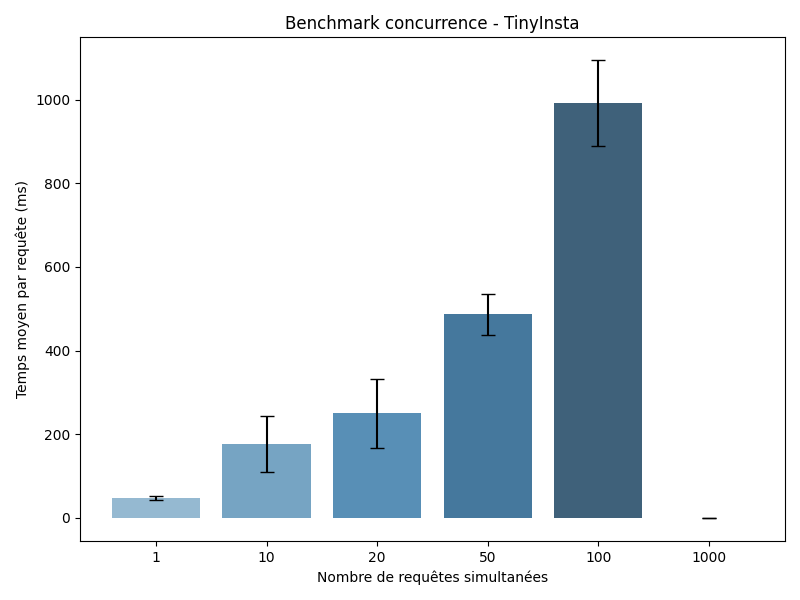
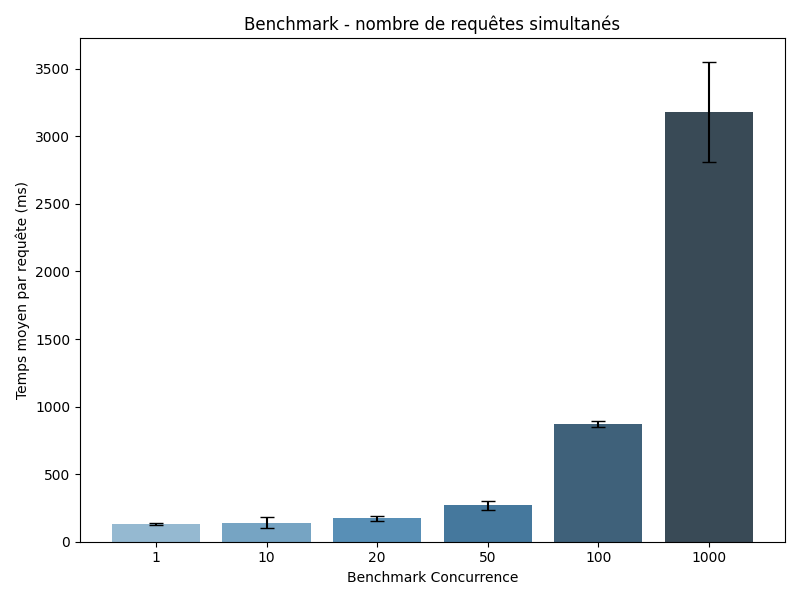
Modification utilisation locust

diff --git a/scripts/plot.py b/scripts/plot.py
@@ -4,7 +4,7 @@ import seaborn as sns
 import numpy as np
 
 # Lire le CSV
-df = pd.read_csv("nom_du_fichier.csv")
+df = pd.read_csv("conc.csv")
 
 # Nettoyer AVG_TIME (enlever 'ms' et convertir en float)
 df['AVG_TIME'] = df['AVG_TIME'].astype(str).str.replace('ms','').astype(float)
@@ -17,9 +17,9 @@ plt.figure(figsize=(8,6))
 ax = sns.barplot(x='PARAM', y='mean', data=summary, palette='Blues_d')
 ax.errorbar(x=range(len(summary)), y=summary['mean'], yerr=summary['std'], fmt='none', c='black', capsize=5)
 
-plt.xlabel('x')
-plt.ylabel('y')
-plt.title('titre')
+plt.xlabel('Benchmark Concurrence')
+plt.ylabel('Temps moyen par requête (ms)')
+plt.title('Benchmark - nombre de requêtes simultanés')
 plt.tight_layout()
-plt.savefig("nom_du_fichier.png")
+plt.savefig("conc.png")
 plt.show()

diff --git a/scripts/locust.py b/scripts/locust.py
@@ -1,0 +1,15 @@
+from locust import HttpUser, task, between
+import random
+
+TOTAL_USERS = 1000
+
+class TimelineUser(HttpUser):
+    wait_time = between(0.1, 0.5)
+
+    def on_start(self):
+        # Chaque utilisateur Locust aura un user différent
+        self.user_id = random.randint(1, TOTAL_USERS)
+
+    @task
+    def get_timeline(self):
+        self.client.get(f"/api/timeline?user=user{self.user_id}")

diff --git a/README.md b/README.md
@@ -1,5 +1,7 @@
 # DataMassiveProject
 
+_Pour chacune des étapes qui vont suivre les données ont été rentrées à la main dans le csv après avoir obtenu les résultats sur locust._
+
 ## **Passage à l'échelle sur la charge :**
 
 
@@ -11,44 +13,28 @@ python seed.py --users 1000 --posts 50000 --follows-min 20 --follows-max 20
 ```
 
 ### Benchmark des performances :
-Script Python pour mesurer le temps moyen d'une requête timeline pour différentes concurrences et sauvegarder les résultats dans un CSV (conc.csv) :
+Script Python pour lancer locust et pouvoir éxécuter tout les tests sur le site :
 
 ```bash
-import subprocess
-import csv
-import re
+from locust import HttpUser, task, between
+import random
 
-# Paramètres
-url = "https://tp1-massive-data.ew.r.appspot.com/api/timeline?user=user1"
-concurrences = [1, 10, 20, 50, 100, 1000]
-runs = 3
-csv_file = "conc.csv"
+TOTAL_USERS = 1000
 
-# Préparer le CSV
-with open(csv_file, "w", newline="") as f:
-    writer = csv.writer(f)
-    writer.writerow(["PARAM","AVG_TIME","RUN","FAILED"])
+class TimelineUser(HttpUser):
+    wait_time = between(0.1, 0.5)
 
-    for c in concurrences:
-        for r in range(1, runs+1):
-            print(f"Running: concurrency={c}, run={r}")
-            try:
-                result = subprocess.run(
-                    ["ab", "-n", "100", "-c", str(c), url],
-                    capture_output=True, text=True, check=True
-                )
-                match = re.search(r"Time per request:\s+([\d\.]+) \[ms\]", result.stdout)
-                avg_time = float(match.group(1)) if match else -1
-                failed = 0
-            except subprocess.CalledProcessError:
-                avg_time = -1
-                failed = 1
+    def on_start(self):
+        # Chaque utilisateur Locust aura un user différent
+        self.user_id = random.randint(1, TOTAL_USERS)
 
-            writer.writerow([c, f"{avg_time}ms", r, failed])
+    @task
+    def get_timeline(self):
+        self.client.get(f"/api/timeline?user=user{self.user_id}")
 ```
 
 ### Plot des résultats :
-Script Python pour générer un barplot avec écart-type (calculé à l'avance) :
+Script Python pour générer les barplot :
 
 ```bash
 import pandas as pd
@@ -80,6 +66,7 @@ plt.savefig("conc.png")
 plt.show()
 ```
 
+### **Résultat pour le premier exercice :** 
 ![Benchmark](images/conc.png)
 
 ---
@@ -88,17 +75,15 @@ plt.show()
 
 ### Post :
 
-Peuplement du Datastore avec 50 utilisateurs, 10,100,1000 posts par utilisateur et 20 followees :
+Peuplement du Datastore avec 100 utilisateurs, 10,100,1000 posts par utilisateur et 20 followees :
 
 ```bash
-python seed.py --users 50 --posts 500/5000/50000 --follows-min 20 --follows-max 20
+python seed.py --users 100 --posts 1000/10000/100000 --follows-min 20 --follows-max 20
 ```
 
-Les programmes utilisés sont relativement les mêmes, j'ai tappé les commandes apache à la main puis construis le csv à partir de celles-ci.
+Les programmes utilisés sont les mêmes :
 
-```bash
-ab -n 100 -c 50 -k  https://tp1-massive-data.ew.r.appspot.com/api/timeline?user=user5
-```
+
 
 ![Bechmark](images/post.png)
 
@@ -112,10 +97,7 @@ Peuplement du Datastore avec 11, 51, 101 utilisateurs 100 posts par utilisateur 
 python3 seed.py --users 11/51/101 --posts 1110/5100/10100 --follows-min 10/50/100 --follows-max 10/50/100
 ```
 
-Les programmes utilisés sont relativement les mêmes, j'ai tappé les commandes apache à la main puis construis le csv à partir de celles-ci.
+Les programmes utilisés sont les mêmes :
 
-```bash
-ab -n 100 -c 50 -k  https://tp1-massive-data.ew.r.appspot.com/api/timeline?user=user5
-```
 
 ![Bechmark](images/fanout.png)
